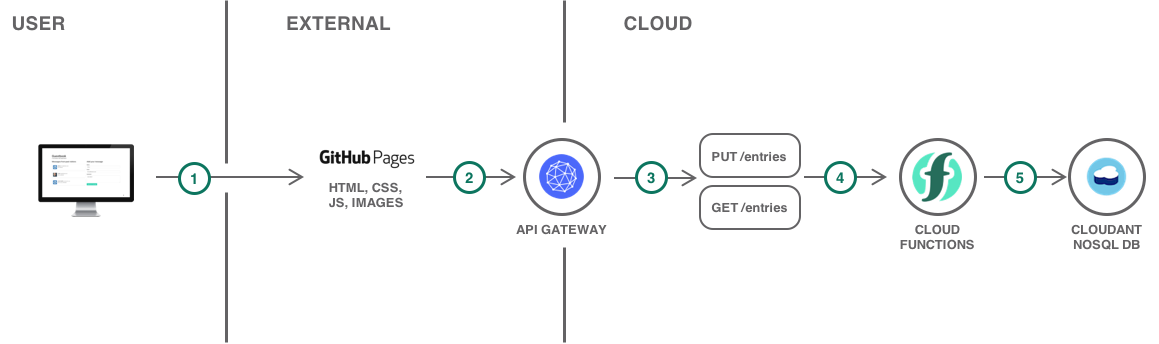
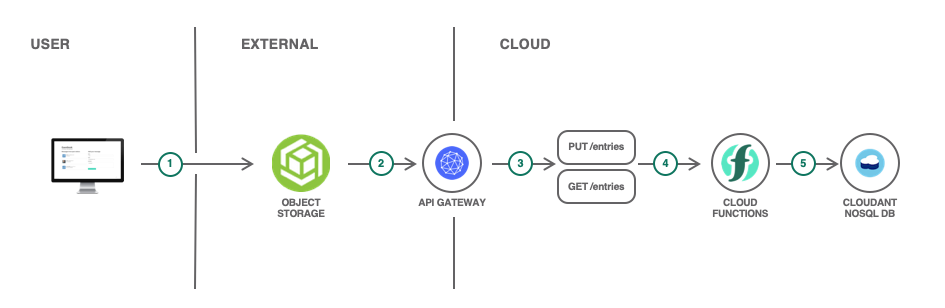
change github pages to cos bucket

diff --git a/serverless-api-webapp.md b/serverless-api-webapp.md
@@ -6,7 +6,7 @@ lastupdated: "2020-07-21"
 lasttested: "2020-06-03"
 
 content-type: tutorial
-services: openwhisk, api-gateway, Cloudant
+services: openwhisk, api-gateway, Cloudant, cloud-object-storage
 account-plan: paid
 completion-time: 2h
 ---
@@ -23,7 +23,7 @@ completion-time: 2h
 # Serverless web application and API
 {: #serverless-api-webapp}
 {: toc-content-type="tutorial"}
-{: toc-services="openwhisk, api-gateway, Cloudant"}
+{: toc-services="openwhisk, api-gateway, Cloudant, cloud-object-storage"}
 {: toc-completion-time="2h"}
 
 <!--##istutorial#-->
@@ -31,7 +31,7 @@ This tutorial may incur costs. Use the [Cost Estimator](https://{DomainName}/est
 {: tip}
 <!--#/istutorial#-->
 
-In this tutorial, you will create a serverless web application by hosting static website content on GitHub Pages and implementing the application backend using {{site.data.keyword.openwhisk}}.
+In this tutorial, you will create a serverless web application using a bucket in {{site.data.keyword.cos_short}} and implementing the application backend using {{site.data.keyword.openwhisk}}.
 {: shortdesc}
 
 As an event-driven platform, {{site.data.keyword.openwhisk_short}} supports a [variety of use cases](https://{DomainName}/docs/openwhisk?topic=openwhisk-use_cases). Building web applications and APIs is one of them. With web apps, events are the interactions between the web browsers (or REST clients) and your web app, the HTTP requests. Instead of provisioning a virtual machine, a container or a Cloud Foundry runtime to deploy your backend, you can implement your backend API with a serverless platform. This can be a good solution to avoid paying for idle time and to let the platform scale as needed.
@@ -56,16 +56,11 @@ The application shown in this tutorial is a simple guestbook website where users
    ![Architecture](./images/solution8/Architecture.png)
 </p>
 
-1. The user accesses the application hosted in GitHub Pages.
+1. The user accesses the application hosted on the bucket in {{site.data.keyword.cos_short}}
 2. The web application calls a backend API.
 3. The backend API is defined in API Gateway.
 4. API Gateway forwards the request to [{{site.data.keyword.openwhisk_short}}](https://{DomainName}/openwhisk).
 5. The {{site.data.keyword.openwhisk_short}} actions use [{{site.data.keyword.cloudant_short_notm}}](https://{DomainName}/catalog/services/cloudantNoSQLDB) to store and retrieve guestbook entries.
-
-## Before you begin
-{: #serverless-api-webapp-prereqs}
-
-This guide uses GitHub Pages to host the static website. Make sure you have a public GitHub account.
 
 ## Create the Guestbook database
 {: #serverless-api-webapp-2}
@@ -139,6 +134,7 @@ Then add the action to a sequence:
 
 1. On the left pane, click on **Enclosing Sequences** and then **Add To Sequence**.
 1. Under **Create New** set the **Sequence Name** to `save-guestbook-entry-sequence` and choose **guestbook** as package.
+1. Select guestbook for the **Enclosing Package**
 1. Then finish by clicking **Create and Add**.
 
 Now, add the second action to that sequence:
@@ -186,7 +182,8 @@ The second sequence is used to retrieve the existing guestbook entries. This seq
 Add the action to a sequence:
 
 1. Similar to earlier, click on **Enclosing Sequences**, **Add to Sequence** and **Create New**.
-1. Enter `read-guestbook-entries-sequence` for the **Sequence Name** and click **Create and Add**.
+1. Enter `read-guestbook-entries-sequence` for the **Sequence Name**
+1. Select guestbook for the **Enclosing Package** and click **Create and Add**.
 
 Complete the sequence:
 
@@ -194,7 +191,8 @@ Complete the sequence:
 1. Under **Use Public**, choose **{{site.data.keyword.cloudant_short_notm}}** and then **list-documents**
 1. Under **My Bindings**, choose **binding-for-guestbook** and **Add** to create and add this public action to your sequence.
 1. Click **Add** again to create and add the third action which will format the documents from {{site.data.keyword.cloudant_short_notm}}.
-1. Under **Create New** enter `format-entries` for name and then click **Create and Add**.
+1. Under **Create New** enter `format-entries` for name
+1. Click **guestbook** for the Enclosing Package and then click **Create and Add**.
 1. Click on **format-entries** and replace the code with below:
    ```js
    const md5 = require('spark-md5');
@@ -238,77 +236,49 @@ Complete the sequence:
 {: #serverless-api-webapp-7}
 {: step}
 
-1. Fork the Guestbook user interface repository https://github.com/IBM-Cloud/serverless-guestbook to your public GitHub. You can do this by going to https://github.com/IBM-Cloud/serverless-guestbook in the browser, and then clicking the **Fork** button.
-2. In your forked version of the code, modify **docs/guestbook.js** and replace the value of **apiUrl** with the route given by API Gateway. You can do this by navigating to the **docs/guestbook.js** file, and then clicking the edit pencil.
-3. Commit the modified file to your forked repository by clicking the **Commit Changes** button at the bottom of the page.
-4. In the Settings page of your repository, scroll to **GitHub Pages**, and change the source to **master branch /docs folder**. This setting will be automatically saved.
-5. Access the public page for your repository. The link to your public page can be found under the **GitHub Pages** section. Give it a few minutes before it gets activated.
-6. You should see the `test` guestbook entry created earlier.
-7. Add new entries.
+Create a {{site.data.keyword.cos_short}} bucket configured with static website hosting containing the files for the guestbook javascript application that uses the cloudant database.
+
+Create a {{site.data.keyword.cos_short}} instance:
+1. Select [Cloud Object Storage](https://cloud.ibm.com/objectstorage/create) from the catalog
+1. Chose a **unique** service name for the insrtance, such as `<yourinitials>-guestbook-cos`
+1. Select a resource group.
+1. Click **Create**
+
+Create a bucket configured for static website hosting:
+1. Click **Create a bucket**
+1. Click Custom bucket
+1. Enter a bucket name that is unique is across all ibm accounts.  Try <yourinitials>-guestbook.
+1. Select Resiliency **Regional**
+1. Select a Location, choose a region consistent with the {{site.data.keyword.cloudant_short_notm}} instance
+1. Keep the Storage class default
+1. Scroll down to the Static website hosting and click **Add rule**
+1. Keep the Routing rules (individual) selected and add the Index document **index.html**
+1. Click Public access to **On**
+1. Click **Save**
+1. Scroll to the bottom and click **Create bucket**
+
+Copy the files in the docs/ of https://github.com/IBM-Cloud/serverless-guestbook into the bucket:
+1. Open https://github.com/IBM-Cloud/serverless-guestbook in a new tab
+1. Download a zip file by clicking **Code** then **Download ZIP**
+1. Unzip the file and navigate to the docs/ directory of the unzipped in the file explorer
+1. Edit **guestbook.js** - replace the value of **apiUrl** with the route you made a note of earlier when creating the API.
+1. Open the bucket **Objects** view and drag and drop the **guestbook.js** and **index.html** files to the COS bucket
+1. Navigate to the **Configuration** tab for the bucket and scroll down to the **Static website hosting endpoints** section to copy the **Public** endpoint into a browser tab
+1. You should see the `test` guestbook entry created earlier.
+1. Add new entries.
 
 ![](images/solution8/Guestbook.png)
-
-<!--##istutorial#-->
-## Optional: Use your own domain for the API
-{: #serverless-api-webapp-custom-domain}
-{: step}
-
-Creating a managed API gives you a default endpoint like `https://1234abcd.us-south.apigw.appdomain.cloud/guestbook`. In this section, you will configure this endpoint to be able to handle requests coming from your custom subdomain.
-
-### Obtain a certificate for the custom domain
-{: #serverless-api-webapp-9}
-
-Exposing {{site.data.keyword.openwhisk_short}} actions through a custom domain will require a secure HTTPS connection. You should obtain a SSL certificate for the domain and subdomain you plan to use with the serverless back-end. Assuming a domain like *mydomain.com*, the actions could be hosted at *guestbook-api.mydomain.com*. The certificate will need to be issued for *guestbook-api.mydomain.com* (or **.mydomain.com*).
-
-You can get free SSL certificates from [Let's Encrypt](https://letsencrypt.org/) or directly through [{{site.data.keyword.cloudcerts_short}}](https://{DomainName}/catalog/services/cloudcerts). During the process you may need to configure a DNS record of type TXT in your DNS interface to prove you are the owner of the domain.
-{:tip}
-
-Once you have obtained the SSL certificate and private key for your domain make sure to convert them to the [PEM](https://en.wikipedia.org/wiki/Privacy-Enhanced_Mail) format.
-
-1. To convert a Certificate to PEM format:
-   ```
-   openssl x509 -in domain-crt.txt -out domain-crt.pem -outform PEM
-   ```
-1. To convert a Private Key to PEM format:
-   ```
-   openssl rsa -in domain-key.txt -out domain-key.pem -outform PEM
-   ```
-
-### Import the certificate to a central repository
-{: #serverless-api-webapp-10}
-
-1. Create a [{{site.data.keyword.cloudcerts_short}}](https://{DomainName}/catalog/services/cloudcerts) instance in a supported location.
-1. In the service dashboard, use **Import Certificate**:
-   * Set **Name** to the custom subdomain and domain, such as `guestbook-api.mydomain.com`.
-   * Browse for the **Certificate file** in PEM format.
-   * Browse for the **Private key file** in PEM format.
-   * **Import**.
-
-### Configure the custom domain for the managed API
-{: #serverless-api-webapp-11}
-
-1. Go to [APIs / Custom domains](https://{DomainName}/apis/domains).
-1. In the Region selector, select the location where you deployed the actions.
-1. Locate the custom domain linked to the organization and space where you created the actions and the managed API. Click **Change Settings** in the action menu.
-1. Make note of the **Default domain / alias** value.
-1. Check **Apply custom domain**
-   1. Set **Domain name** to the domain you will use such as `guestbook-api.mydomain.com`.
-   1. Select the {{site.data.keyword.cloudcerts_short}} instance holding the certificate.
-   1. Select the certificate for the domain.
-1. Go to your DNS provider and create a new **DNS TXT record** mapping your domain to the API default domain / alias. The DNS TXT record can be removed once the settings have been applied.
-1. Save the custom domain settings. The dialog will check for the existence of the DNS TXT record.
-1. Finally, return to your DNS provider's settings and create a CNAME record pointing your custom domain (e.g. guestbook-api.mydomain.com) to the Default domain / Alias. This will cause traffic through your custom domain to be routed to your backend API.
-
-Once the DNS changes have been propagated, you will be able to access your guestbook api at https://guestbook-api.mydomain.com/guestbook.
-
-1. Edit **docs/guestbook.js** and update the value of **apiUrl** with https://guestbook-api.mydomain.com/guestbook
-1. Commit the modified file.
-1. Your application now accesses the API through your custom domain.
-<!--#/istutorial#-->
 
 ## Remove resources
 {: #serverless-api-webapp-cleanup}
 {: step}
+
+To delete the created bucket and {{site.data.keyword.openwhisk_short}} service:
+1. Navigate to the {{site.data.keyword.cos_short}} bucket objects
+1. Check the box in the title row to select all objects in the bucket
+1. Click **Delete objects**
+1. In the upper right of the bucket object page **Actions** menu select **Delete bucket**
+1. In the upper right of the {{site.data.keyword.openwhisk_short}} instance **Actions** menu select **Delete Service**
 
 To delete the created {{site.data.keyword.cloudant_short_notm}} service,
 1. Navigate to [resource list](https://{DomainName}/resources)
@@ -316,15 +286,21 @@ To delete the created {{site.data.keyword.cloudant_short_notm}} service,
 3. Click **Delete**
 
 To delete the API and actions from {{site.data.keyword.openwhisk_short}},
-
 1. Navigate to [{{site.data.keyword.openwhisk_short}}](https://{DomainName}/functions/) landing page.
 2. On the left pane, click on **APIs**.
 3. Click on the **delete** icon in the `guestbook` API row and then **Delete** on the modal window.
 4. On the left pane, click on **Actions**.
 5. Under the `guestbook` package, delete all the actions by clicking on the **delete** icon in the respective action rows.
 
+## Configure a custom domain
+{: #serverless-api-webapp-custom-domain}
+[Deploy serverless apps across multiple regions](https://{DomainName}/docs/solution-tutorials?topic=solution-tutorials-multi-region-serverless) explains how to create a custom domain for an API. Navigate to [APIs / Custom domains](https://{DomainName}/apis/domains) and find the guestbook API that you just created.
+
+A custom domain can also be assigned to the static website bucket.
+
 ## Related content
 {: #serverless-api-webapp-13}
+[Deploy serverless apps across multiple regions](https://{DomainName}/docs/solution-tutorials?topic=solution-tutorials-multi-region-serverless)
 * [Serverless Computing](https://www.ibm.com/cloud/learn/serverless)
 * [More code patterns on serverless](https://developer.ibm.com/patterns/category/serverless/)
 * [Getting started with {{site.data.keyword.openwhisk}}](https://{DomainName}/docs/openwhisk?topic=openwhisk-getting-started)
